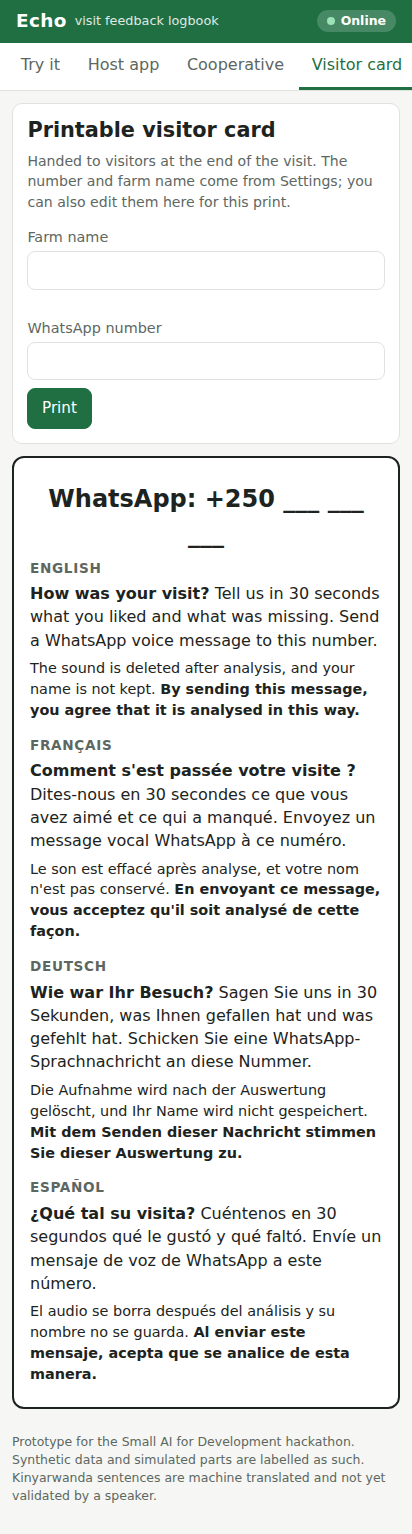
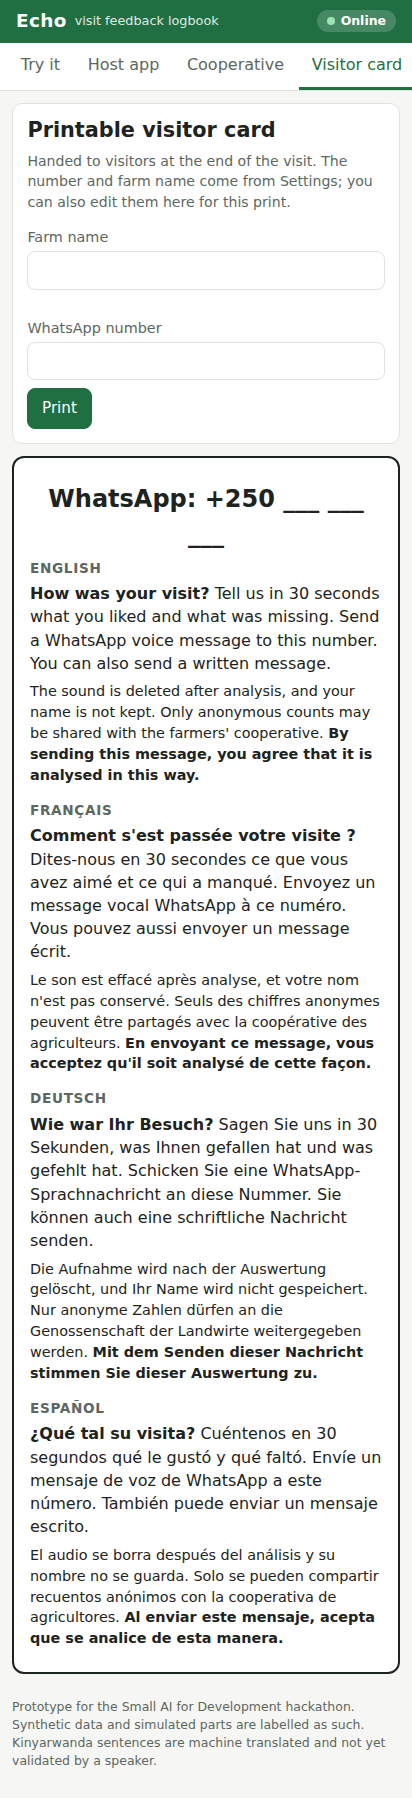
Web app: one clock for months (device local time for message months, current month and month closure, TZ tests); visitor card says written messages are accepted and only anonymous counts may go to the cooperative

Changed region(s): [[0.0, 0.0, 1.0, 0.9804], [0.9612, 0.2451, 0.9903, 0.3064]]

diff --git a/apps/web/src/lib/db.test.ts b/apps/web/src/lib/db.test.ts
@@ -29,13 +29,13 @@ describe("IndexedDB storage", () => {
     const emb = new Float32Array([0.6, 0.8]);
     await saveAnalysis(db, { ...toStoredMessage(analysis), id: "old", receivedAt: "2026-09-20T10:00:00.000Z", embedding: emb }, []);
     await saveAnalysis(db, { ...toStoredMessage(analysis), id: "new", receivedAt: "2026-10-03T10:00:00.000Z", embedding: emb }, []);
-    expect(await pruneExpiredEmbeddings(db, new Date("2026-10-04T12:00:00.000Z"))).toBe(1);
+    expect(await pruneExpiredEmbeddings(db, new Date(2026, 9, 4, 12))).toBe(1);
     const old = (await db.get("messages", "old"))!;
     expect("embedding" in old).toBe(false);
     expect(old).toMatchObject({ fingerprint: "abc", findings: [{ id: "P3", confidence: 0.9 }] });
     expect((await db.get("messages", "new"))!.embedding).toEqual(emb);
     // Idempotent ; le doublon exact par empreinte reste détectable (fenêtre gérée par le cœur).
-    expect(await pruneExpiredEmbeddings(db, new Date("2026-10-04T12:00:00.000Z"))).toBe(0);
+    expect(await pruneExpiredEmbeddings(db, new Date(2026, 9, 4, 12))).toBe(0);
     expect((await knownMessages(db)).find((k) => k.receivedAt?.startsWith("2026-09-20"))).toEqual({ fingerprint: "abc", receivedAt: "2026-09-20T10:00:00.000Z" });
   });
 
@@ -75,8 +75,8 @@ describe("IndexedDB storage", () => {
     const before = monthClustersFromReview("2026-09", await db.getAll("reviewChunks"), DEFAULT_CONFIG);
     expect(before.find((c) => c.recurring)?.distinctVisitors).toBe(3);
     // August still has a message in the queue: it waits for the next run.
-    await enqueue(db, { kind: "text", text: "x", receivedAt: "2026-08-31T23:00:00.000Z", via: "paste" });
-    expect(await closeFinishedMonths(db, new Date("2026-10-04T12:00:00.000Z"), await queuedMonths(db))).toEqual(["2026-09"]);
+    await enqueue(db, { kind: "text", text: "x", receivedAt: new Date(2026, 7, 31, 23).toISOString(), via: "paste" }); // 31 Aug, 23:00 local
+    expect(await closeFinishedMonths(db, new Date(2026, 9, 4, 12), await queuedMonths(db))).toEqual(["2026-09"]);
     const rows = await db.getAll("reviewChunks");
     const septRows = rows.filter((r) => r.month === "2026-09");
     expect(septRows.every((r) => !("embedding" in r) && r.clusterId)).toBe(true);
@@ -84,7 +84,25 @@ describe("IndexedDB storage", () => {
     expect(rows.find((r) => r.id === "f:0")!.embedding).toBeDefined(); // pending in the queue
     // The closed month's recap reads the stored groups: same result as before, without any embedding.
     expect(monthClustersFromReview("2026-09", rows, DEFAULT_CONFIG)).toEqual(before);
-    expect(await closeFinishedMonths(db, new Date("2026-10-04T12:00:00.000Z"), await queuedMonths(db))).toEqual([]);
-    expect(await closeFinishedMonths(db, new Date("2026-10-04T12:00:00.000Z"))).toEqual(["2026-08"]);
+    expect(await closeFinishedMonths(db, new Date(2026, 9, 4, 12), await queuedMonths(db))).toEqual([]);
+    expect(await closeFinishedMonths(db, new Date(2026, 9, 4, 12))).toEqual(["2026-08"]);
+  });
+
+  it("months use the device's local clock (UTC-5 on the evening of 31 October): October is not closed, the queue month is October", async () => {
+    const tz = process.env.TZ;
+    process.env.TZ = "America/New_York";
+    try {
+      const db = await openEchoDB("test-close-tz");
+      const evening = new Date("2026-11-01T02:30:00.000Z"); // 31 Oct, 21:30 local, already November in UTC
+      const c: ReviewChunk = { id: "g:0", messageId: "g", month: "2026-10", status: "off_list", text: "picking", mentionsGuide: false, reason: "below_floor", embedding: Float32Array.from([1, 0]) };
+      await saveAnalysis(db, { ...toStoredMessage(analysis), id: "g", month: "2026-10" }, [c]);
+      await enqueue(db, { kind: "text", text: "x", receivedAt: evening.toISOString(), via: "paste" });
+      expect([...(await queuedMonths(db))]).toEqual(["2026-10"]);
+      expect(await closeFinishedMonths(db, evening)).toEqual([]);
+      expect((await db.get("reviewChunks", "g:0"))!.embedding).toBeDefined();
+    } finally {
+      if (tz === undefined) delete process.env.TZ;
+      else process.env.TZ = tz;
+    }
   });
 });

diff --git a/apps/web/src/pages/Card.tsx b/apps/web/src/pages/Card.tsx
@@ -3,14 +3,17 @@ import { getSettings } from "../lib/db.ts";
 import { db } from "../lib/host-store.ts";
 
 // Texte de la carte (SPEC 4.1), rédigé par l'équipe dans les 4 langues visiteur. La phrase de consentement
-// est explicite : envoyer le message vaut accord.
+// est explicite : envoyer le message vaut accord. La carte dit aussi que les messages écrits sont acceptés et que seuls
+// des chiffres anonymes peuvent aller à la coopérative (si l'hôte y consent, SPEC 4.7).
 export const CARD_TEXT = [
   {
     lang: "en",
     name: "English",
     title: "How was your visit?",
     body: "Tell us in 30 seconds what you liked and what was missing. Send a WhatsApp voice message to this number.",
+    written: "You can also send a written message.",
     privacy: "The sound is deleted after analysis, and your name is not kept.",
+    coop: "Only anonymous counts may be shared with the farmers' cooperative.",
     consent: "By sending this message, you agree that it is analysed in this way.",
   },
   {
@@ -18,7 +21,9 @@ export const CARD_TEXT = [
     name: "Français",
     title: "Comment s'est passée votre visite ?",
     body: "Dites-nous en 30 secondes ce que vous avez aimé et ce qui a manqué. Envoyez un message vocal WhatsApp à ce numéro.",
+    written: "Vous pouvez aussi envoyer un message écrit.",
     privacy: "Le son est effacé après analyse, et votre nom n'est pas conservé.",
+    coop: "Seuls des chiffres anonymes peuvent être partagés avec la coopérative des agriculteurs.",
     consent: "En envoyant ce message, vous acceptez qu'il soit analysé de cette façon.",
   },
   {
@@ -26,7 +31,9 @@ export const CARD_TEXT = [
     name: "Deutsch",
     title: "Wie war Ihr Besuch?",
     body: "Sagen Sie uns in 30 Sekunden, was Ihnen gefallen hat und was gefehlt hat. Schicken Sie eine WhatsApp-Sprachnachricht an diese Nummer.",
+    written: "Sie können auch eine schriftliche Nachricht senden.",
     privacy: "Die Aufnahme wird nach der Auswertung gelöscht, und Ihr Name wird nicht gespeichert.",
+    coop: "Nur anonyme Zahlen dürfen an die Genossenschaft der Landwirte weitergegeben werden.",
     consent: "Mit dem Senden dieser Nachricht stimmen Sie dieser Auswertung zu.",
   },
   {
@@ -34,7 +41,9 @@ export const CARD_TEXT = [
     name: "Español",
     title: "¿Qué tal su visita?",
     body: "Cuéntenos en 30 segundos qué le gustó y qué faltó. Envíe un mensaje de voz de WhatsApp a este número.",
+    written: "También puede enviar un mensaje escrito.",
     privacy: "El audio se borra después del análisis y su nombre no se guarda.",
+    coop: "Solo se pueden compartir recuentos anónimos con la cooperativa de agricultores.",
     consent: "Al enviar este mensaje, acepta que se analice de esta manera.",
   },
 ] as const;
@@ -77,10 +86,10 @@ export function Card() {
             <div class="lang" lang={t.lang} key={t.lang}>
               <h3>{t.name}</h3>
               <p>
-                <strong>{t.title}</strong> {t.body}
+                <strong>{t.title}</strong> {t.body} {t.written}
               </p>
               <p style={{ fontSize: "0.9rem" }}>
-                {t.privacy} <strong>{t.consent}</strong>
+                {t.privacy} {t.coop} <strong>{t.consent}</strong>
               </p>
             </div>
           ))}

diff --git a/apps/web/scripts/e2e.ts b/apps/web/scripts/e2e.ts
@@ -199,6 +199,19 @@ try {
   await page.waitForTimeout(300);
   await page.goto(BASE + "/#/host");
   await page.getByTestId("inbox").waitFor();
+  // Un message écrit est nettoyé AVANT d'entrer dans la file : rien en clair même s'il attend des jours.
+  await page.getByTestId("host-text").fill("My name is Anna, +250 788 000 111. The meal was great.");
+  await page.getByTestId("host-add-text").click();
+  await page.waitForFunction(() => document.querySelector("[data-testid=inbox] h3")?.textContent?.includes("1 waiting"), null, { timeout: 10_000 });
+  const queued = (await page.evaluate(`(async () => {
+    const db = await new Promise((res, rej) => { const r = indexedDB.open("echo"); r.onsuccess = () => res(r.result); r.onerror = () => rej(r.error); });
+    return await new Promise((res) => { const r = db.transaction("queue").objectStore("queue").getAll(); r.onsuccess = () => res(r.result); });
+  })()`)) as { text?: string }[];
+  report.queuedPaste = queued.map((q) => q.text);
+  check(queued.length === 1 && queued[0]!.text === "My name is [nom], [numéro]. The meal was great.", `pasted text scrubbed before it enters the queue (${JSON.stringify(queued[0]?.text)})`);
+  check(!/Anna|788|000 111/.test(JSON.stringify(queued)), "no name or phone number in the IndexedDB queue");
+  await page.getByTestId("inbox").getByRole("button", { name: "Remove" }).click();
+  await page.waitForFunction(() => document.querySelector("[data-testid=inbox] h3")?.textContent?.includes("0 waiting"), null, { timeout: 10_000 });
   await page.getByTestId("host-text").fill("The coffee tasting was wonderful, but the toilets were dirty. My name is John Smith, call me on +44 7700 900123.");
   await page.getByTestId("host-add-text").click();
   await page.getByTestId("host-file").setInputFiles(join(WEB, "public/samples/de-roasting-path.wav"));
@@ -328,6 +341,12 @@ try {
   await page.screenshot({ path: join(SHOTS, "10-coop-synthetic.png"), fullPage: true });
   await page.goto(BASE + "/#/card");
   await page.getByTestId("visitor-card").waitFor();
+  const cardText = (await page.getByTestId("visitor-card").textContent()) ?? "";
+  check(
+    ["written message", "message écrit", "schriftliche Nachricht", "mensaje escrito"].every((w) => cardText.includes(w)) &&
+      ["anonymous counts", "chiffres anonymes", "anonyme Zahlen", "recuentos anónimos"].every((w) => cardText.includes(w)),
+    "visitor card says written messages are accepted and only anonymous counts may go to the cooperative (4 languages)",
+  );
   await page.screenshot({ path: join(SHOTS, "11-visitor-card.png"), fullPage: true });
 
   // ---------- 4. Hors ligne ----------

diff --git a/apps/web/src/lib/db.ts b/apps/web/src/lib/db.ts
@@ -1,7 +1,7 @@
 // Stockage sur l'appareil uniquement (IndexedDB), exactement ce que SPEC 6 autorise (docs/ARCHITECTURE.md §7).
 // Utilisé par l'interface ET par le service worker (Web Share Target → file d'attente).
 import { openDB, type DBSchema, type IDBPDatabase } from "idb";
-import { DEFAULT_CONFIG, closeMonthReviewChunks, expireMessageEmbedding, isClosedMonth, type AnalysisConfig, type KnownMessage, type RecapLine, type ReviewChunk, type StoredMessage } from "@echo/core";
+import { DEFAULT_CONFIG, closeMonthReviewChunks, expireMessageEmbedding, isClosedMonth, localMonth, monthOfReceived, type AnalysisConfig, type KnownMessage, type RecapLine, type ReviewChunk, type StoredMessage } from "@echo/core";
 
 export interface QueueItem {
   id: string;
@@ -148,11 +148,6 @@ export async function pruneExpiredEmbeddings(db: EchoDatabase, now = new Date(),
   return n;
 }
 
-/** Mois courant sur la même horloge que `month` des fiches (date ISO, UTC). */
-export function utcMonth(now = new Date()): string {
-  return now.toISOString().slice(0, 7);
-}
-
 /**
  * Ferme les mois terminés (SPEC 6) : pour chaque mois avant le mois courant dont des morceaux « À faire lire »
  * ont encore leur embedding, les sujets inconnus sont regroupés une fois (`clusterId`, `clusterRecurring`
@@ -166,7 +161,7 @@ export async function closeFinishedMonths(
   pendingMonths: ReadonlySet<string> = new Set(),
   config: Pick<AnalysisConfig, "offListClusterThreshold" | "offListMinVisitors" | "unknownTopicSources"> = DEFAULT_CONFIG,
 ): Promise<string[]> {
-  const current = utcMonth(now);
+  const current = localMonth(now); // même horloge que `month` des fiches (heure locale)
   const tx = db.transaction("reviewChunks", "readwrite");
   const byMonth = new Map<string, ReviewChunk[]>();
   for (const c of await tx.store.getAll()) {
@@ -185,7 +180,7 @@ export async function closeFinishedMonths(
 
 /** Mois des messages encore dans la file (date de réception). */
 export async function queuedMonths(db: EchoDatabase): Promise<Set<string>> {
-  return new Set((await db.getAll("queue")).map((q) => q.receivedAt.slice(0, 7)));
+  return new Set((await db.getAll("queue")).map((q) => monthOfReceived(q.receivedAt)));
 }
 
 /** Efface toutes les données Echo de l'appareil (réglages compris si `includeSettings`). */

diff --git a/apps/web/src/lib/recap-service.test.ts b/apps/web/src/lib/recap-service.test.ts
@@ -1,7 +1,7 @@
 import { readFileSync } from "node:fs";
 import { describe, expect, it } from "vitest";
-import { DEFAULT_CONFIG, gsm7Length, validateCatalog, type ReviewChunk } from "@echo/core";
-import { addMonths, monthReport, reviewChunksToItems, smsParts, toMonthMessage } from "./recap-service.ts";
+import { DEFAULT_CONFIG, gsm7Length, monthOfReceived, validateCatalog, type ReviewChunk } from "@echo/core";
+import { addMonths, currentMonth, monthReport, reviewChunksToItems, smsParts, toMonthMessage } from "./recap-service.ts";
 import { syntheticCoopFarms, syntheticHistory } from "./synthetic.ts";
 
 const catalog = validateCatalog(JSON.parse(readFileSync(new URL("../../../../catalog/catalog.json", import.meta.url), "utf8")));
@@ -15,6 +15,23 @@ describe("recap service", () => {
   it("month arithmetic", () => {
     expect(addMonths("2026-01", -1)).toBe("2025-12");
     expect(addMonths("2026-10", 3)).toBe("2027-01");
+  });
+
+  it("the demo recap month is the month of the messages just run, in UTC-5 and UTC+2 at the month boundary", () => {
+    const tz = process.env.TZ;
+    try {
+      for (const [zone, iso, month] of [
+        ["America/New_York", "2026-11-01T02:30:00.000Z", "2026-10"], // 31 Oct, 21:30 local
+        ["Africa/Kigali", "2026-09-30T23:00:00.000Z", "2026-10"], // 1 Oct, 01:00 local
+      ] as const) {
+        process.env.TZ = zone;
+        expect(currentMonth(new Date(iso))).toBe(month);
+        expect(monthOfReceived(iso)).toBe(month); // month written by analyzeMessage
+      }
+    } finally {
+      if (tz === undefined) delete process.env.TZ;
+      else process.env.TZ = tz;
+    }
   });
 
   it("synthetic history makes the path a streak and the recap uses only catalog sentences", () => {

diff --git a/packages/core/src/month.test.ts b/packages/core/src/month.test.ts
@@ -1,0 +1,31 @@
+import { afterEach, describe, expect, it } from "vitest";
+import { localMonth, monthOfReceived } from "./month.ts";
+
+// Le cœur est compilé sans types Node : accès typé à process.env, le temps du test (Node relit TZ à chaud).
+const env = (globalThis as unknown as { process: { env: Record<string, string | undefined> } }).process.env;
+const initialTz = env.TZ;
+afterEach(() => {
+  if (initialTz === undefined) delete env.TZ;
+  else env.TZ = initialTz;
+});
+
+describe("one clock for months (device local time)", () => {
+  it("UTC-5, evening of the last day of the month: the message and the current month stay in the local month", () => {
+    env.TZ = "America/New_York";
+    const now = new Date("2026-11-01T02:30:00.000Z"); // 31 Oct, 21:30 local
+    expect(monthOfReceived(now.toISOString())).toBe("2026-10");
+    expect(localMonth(now)).toBe("2026-10");
+  });
+
+  it("Rwanda (UTC+2), 1st of the month at 01:00: next month, not the previous one", () => {
+    env.TZ = "Africa/Kigali";
+    const now = new Date("2026-09-30T23:00:00.000Z"); // 1 Oct, 01:00 local
+    expect(monthOfReceived(now.toISOString())).toBe("2026-10");
+    expect(localMonth(now)).toBe("2026-10");
+  });
+
+  it("an unreadable date falls back to its first 7 characters", () => {
+    expect(monthOfReceived("2026-10")).toMatch(/^2026-(09|10)$/);
+    expect(monthOfReceived("not a date")).toBe("not a d");
+  });
+});

diff --git a/packages/core/src/analyze.ts b/packages/core/src/analyze.ts
@@ -8,6 +8,7 @@ import type { ChunkResult, DetectedLang, FindingId, FindingScore, MessageAnalysi
 import { audioInaudibleReason } from "./audio-stats.ts";
 import { checkDuplicate, fingerprint, type KnownMessage } from "./duplicates.ts";
 import { detectTextLanguage } from "./language.ts";
+import { monthOfReceived } from "./month.ts";
 import { detectNegation } from "./negation.ts";
 import { scrubPii } from "./pii.ts";
 import { segment } from "./segment.ts";
@@ -55,10 +56,6 @@ export function isPhantomTranscript(text: string): boolean {
   const t = text.trim();
   if (!/[\p{L}\p{N}]/u.test(t)) return true;
   return WHISPER_PHANTOMS.some((re) => re.test(t));
-}
-
-function monthOf(iso: string): string {
-  return iso.slice(0, 7);
 }
 
 /** Union des constats des morceaux : chaque constat une fois par message, avec sa meilleure confiance. */
@@ -158,7 +155,7 @@ export function withSegmentEnglish(a: MessageAnalysis, segments: readonly Transc
 
 export async function analyzeMessage(input: MessageInput, deps: AnalyzeDeps): Promise<MessageAnalysis> {
   const { config, matcher } = deps;
-  const month = monthOf(input.receivedAt);
+  const month = monthOfReceived(input.receivedAt);
   const t = input.transcript;
   const rawText = (input.source === "audio" ? t?.text : input.text) ?? "";
 

diff --git a/packages/core/src/month.ts b/packages/core/src/month.ts
@@ -1,0 +1,14 @@
+// Une seule horloge pour les mois (SPEC 4.6) : le mois local de l'appareil. Le mois d'un message (date de
+// réception), le mois courant du récap et la fermeture des mois terminés utilisent tous ces fonctions, pour qu'un
+// message reçu le soir du dernier jour du mois (ou juste après minuit le 1er) tombe dans le mois que voit l'hôte.
+
+/** Mois local "YYYY-MM" d'un instant (fuseau horaire de l'appareil). */
+export function localMonth(d: Date = new Date()): string {
+  return `${d.getFullYear()}-${String(d.getMonth() + 1).padStart(2, "0")}`;
+}
+
+/** Mois local de la date de réception d'un message (ISO 8601). Date illisible : les 7 premiers caractères. */
+export function monthOfReceived(iso: string): string {
+  const t = Date.parse(iso);
+  return Number.isNaN(t) ? iso.slice(0, 7) : localMonth(new Date(t));
+}

diff --git a/apps/web/src/lib/recap-service.ts b/apps/web/src/lib/recap-service.ts
@@ -3,6 +3,7 @@
 import {
   buildMonthlyRecap,
   clusterOffList,
+  localMonth,
   recapRwLines,
   recurringUnknownVisitors,
   reviewChunkCandidates,
@@ -19,12 +20,9 @@ import {
   type StoredMessage,
 } from "@echo/core";
 
-export function monthOf(iso: string): string {
-  return iso.slice(0, 7);
-}
-
+/** Mois courant, heure locale de l'appareil (même horloge que le mois des messages, voir core month.ts). */
 export function currentMonth(now = new Date()): string {
-  return `${now.getFullYear()}-${String(now.getMonth() + 1).padStart(2, "0")}`;
+  return localMonth(now);
 }
 
 export function addMonths(month: string, delta: number): string {

diff --git a/packages/core/src/index.ts b/packages/core/src/index.ts
@@ -20,3 +20,4 @@ export * from "./sms.ts";
 export * from "./baseline.ts";
 export * from "./storage.ts";
 export * from "./coop.ts";
+export * from "./month.ts";

diff --git a/docs/PROGRESS.md b/docs/PROGRESS.md
@@ -785,3 +785,34 @@ the e2e (new `16-review-list-english.png`).
   instead of "needs about 3 GB of RAM". Demo sequence: new step 11, the WhatsApp-deletion reminder
   (14-whatsapp-reminder), later steps renumbered; stills list completed with screenshots 14–16.
 - No deviation from the spec; nothing remaining for this task.
+
+## 2026-10-04 — fix-web-app-3: one clock for months, visitor card wording
+
+**Built**
+- **One clock for months (SPEC 4.6, SPEC 8)**: new `packages/core/src/month.ts` with `localMonth(date)` (device
+  local time) and `monthOfReceived(iso)` (local month of a reception date). `analyzeMessage` now writes
+  `month = monthOfReceived(receivedAt)` (was the UTC `receivedAt.slice(0, 7)`); `currentMonth()` (recap-service, used
+  by Host, Demo and Coop) is `localMonth`; `closeFinishedMonths` uses `localMonth` (the UTC `utcMonth` is gone) and
+  `queuedMonths` uses `monthOfReceived`. A judge in UTC-5 on the evening of 31 October now sees the demo messages in
+  the October recap; in Rwanda a message at 01:00 on 1 October goes to October.
+- Tests: `month.test.ts` (UTC-5 and UTC+2 at the month boundary, by setting `TZ` at runtime), a recap-service test
+  (demo recap month = month written by the analysis, both zones), a db test (UTC-5, 31 Oct 21:30: queue month is
+  October, October not closed). The existing month-closure test now builds its dates in local time. The whole suite
+  was also run with `TZ=UTC`, `TZ=America/New_York` and `TZ=Pacific/Kiritimati`: all passed.
+- **Visitor card (SPEC 4.1, 4.7)**: each of the 4 languages now says "You can also send a written message." and
+  "Only anonymous counts may be shared with the farmers' cooperative." (FR/DE/ES equivalents in `Card.tsx`). The e2e
+  checks both sentences in all 4 languages; screenshot `11-visitor-card.png` re-taken. README §2 step 1 and §7
+  (consent) updated.
+
+**Verified**: `pnpm test` (168 passed, includes another agent's in-progress core tests), `pnpm typecheck`,
+`pnpm build`, `pnpm --filter @echo/web e2e` **PASSED** (52 checks).
+
+**Deviations**: none from the audit fix. Stored months of messages analysed before this change keep their UTC month
+(no migration; only messages near midnight at a month boundary differ). Months stay those of the phone's time zone:
+if the phone's clock or zone is wrong, so are the months.
+
+**Touched other areas (minimal)**: `packages/core` (`month.ts` + test, `analyze.ts` month line, `index.ts` export).
+README test counts were left to the agent currently changing the core tests.
+
+**Remains**: nothing for these two gaps. The new card sentences in DE/ES/FR were written by the team, not checked by
+native speakers.

diff --git a/README.md b/README.md
@@ -89,9 +89,11 @@ The host acts on the counts, so we chose a low wrong-answer rate over coverage (
 
 1. **Collection.** At the end of the visit the host hands the visitor a **printed card** in English, French, German
    and Spanish (`#/card` in the app, printable): "Tell us in 30 seconds what you liked and what was missing. Send a
-   WhatsApp voice message to this number. The sound is deleted after analysis and your name is not kept." Sending the
-   message is the visitor's consent, and the card says so. The visitor uses their own phone; with no signal at the
-   farm, WhatsApp sends it later on its own. Written messages are accepted too (same path, no transcription).
+   WhatsApp voice message to this number. You can also send a written message. The sound is deleted after analysis,
+   and your name is not kept. Only anonymous counts may be shared with the farmers' cooperative." Sending the message
+   is the visitor's consent, and the card says so (screenshot `docs/screenshots/11-visitor-card.png`). The visitor
+   uses their own phone; with no signal at the farm, WhatsApp sends it later on its own. Written messages take the
+   same path, without transcription.
 2. **Reception.** Messages arrive on the smartphone that holds the farm's number. Whoever has it **shares** them to
    Echo in one gesture (Android share sheet → Echo, via the Web Share Target of the installed app), or imports a file
    / pastes text. Echo puts them in a queue. From here on, nothing needs the internet. After analysis, Echo keeps a
@@ -438,7 +440,8 @@ a person, off-list topics) and, with the host's consent, aggregated counts per c
 ## 7. Responsible AI
 
 **Consent.** The printed visitor card states that sending a message is consent, that the sound is deleted after
-analysis and that the name is not kept (four languages). That promise rests on the heuristic scrubber, which
+analysis, that the name is not kept and that only anonymous counts may be shared with the farmers' cooperative
+(four languages). That promise rests on the heuristic scrubber, which
 removed 90 % of names in our synthetic check, not all of them (§10). Sending is voluntary and from the visitor's own phone.
 Cooperative sharing is a separate host consent, **off by default**, revocable in Settings.
 
